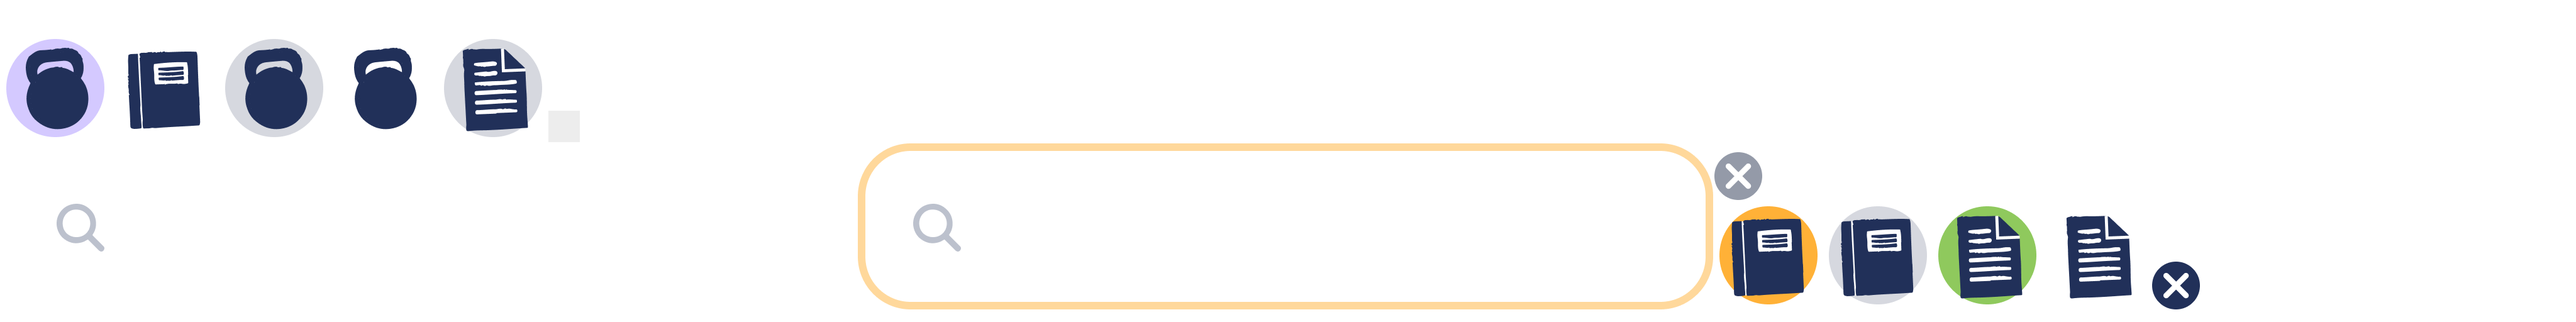
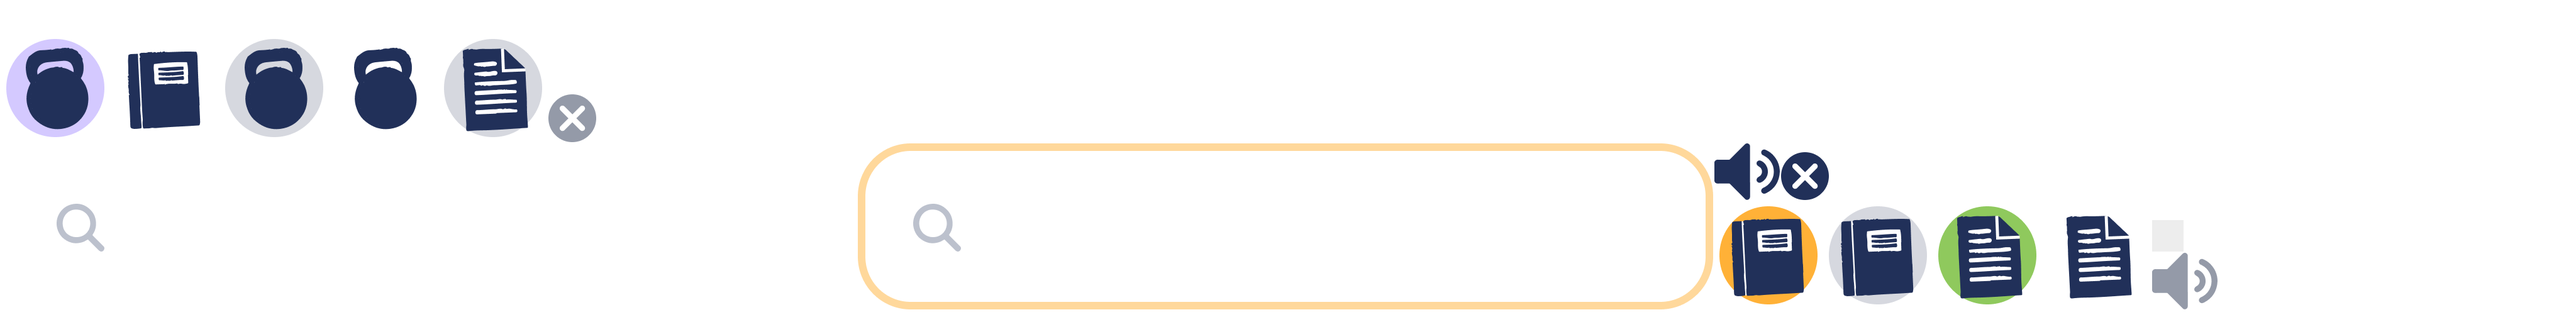
update - 7.2.23::1

Changed region(s): [[0.8125, 0.7812, 0.875, 0.9688], [0.6562, 0.4688, 0.7188, 0.625], [0.1875, 0.2812, 0.25, 0.4375]]

diff --git a/core/src/com/hydroyura/dictinaryapp/stages/main/MainStage.java b/core/src/com/hydroyura/dictinaryapp/stages/main/MainStage.java
@@ -25,6 +25,7 @@ import com.hydroyura.dictinaryapp.AppStarter;
 import static com.hydroyura.dictinaryapp.stages.main.MainStageConstants.*;
 import com.hydroyura.dictinaryapp.httpclient.HttpClient;
 import com.hydroyura.dictinaryapp.stages.main.fsm.body.BodyFSMStates;
+import com.hydroyura.dictinaryapp.stages.main.fsm.footer.FooterMainFSMStates;
 import com.hydroyura.dictinaryapp.stages.main.fsm.header.HeaderWordInputFSMStates;
 
 import java.util.*;
@@ -104,6 +105,8 @@ public class MainStage extends Stage {
             POSITION_X += 2 * Gdx.graphics.getWidth() / 7;
         };
 
+        fsms.put(FOOTER_MAIN_ID, new DefaultStateMachine<>(group, FooterMainFSMStates.DICTIONARY));
+
         return group;
     };
 
@@ -156,7 +159,25 @@ public class MainStage extends Stage {
         group.addActor(table);
         table.align(Align.topLeft);
 
+        // label-for-add-word
+        Label addWordTitle = new Label("", skin.get("label-for-add-word", LabelStyle.class));
+        addWordTitle.setName(BODY_WORDS_WORD_ADD_TITLE_ID);
+        addWordTitle.setPosition(Gdx.graphics.getWidth() / 2f, 550f);
+        addWordTitle.setVisible(false);
+        group.addActor(addWordTitle);
 
+        Label addWordTitleTranscription = new Label("", skin.get("label-for-add-word", LabelStyle.class));
+        addWordTitleTranscription.setName(BODY_WORDS_WORD_ADD_TITLE_TRANSCRIPTION_ID);
+        addWordTitleTranscription.setPosition(Gdx.graphics.getWidth() / 2f, 450f);
+        addWordTitleTranscription.setVisible(false);
+        group.addActor(addWordTitleTranscription);
+
+        ImageButton pronunciationBtn = new ImageButton(skin.get("pronunciation", ImageButtonStyle.class));
+        pronunciationBtn.setName(BODY_WORDS_WORD_ADD_PRONUNCIATION_ID);
+        pronunciationBtn.setSize(Gdx.graphics.getWidth() / 10f, Gdx.graphics.getWidth() / 10f);
+        pronunciationBtn.setPosition(Gdx.graphics.getWidth() / 2f - pronunciationBtn.getWidth() / 2f, Gdx.graphics.getHeight() * 0.75f);
+        pronunciationBtn.setVisible(false);
+        group.addActor(pronunciationBtn);
 
         fsms.put(BODY_ID, new DefaultStateMachine<>(group, BodyFSMStates.WORD_INPUT));
 

diff --git a/core/src/com/hydroyura/dictinaryapp/httpclient/response/impl/AutoCompleteHttpResponse.java b/core/src/com/hydroyura/dictinaryapp/httpclient/response/impl/AutoCompleteHttpResponse.java
@@ -16,18 +16,19 @@ import com.hydroyura.dictinaryapp.httpclient.response.converter.impl.AutoComplet
 import com.hydroyura.dictinaryapp.httpclient.response.dto.DTOAutoCompleteResponse;
 import com.hydroyura.dictinaryapp.stages.main.MainStage;
 import com.hydroyura.dictinaryapp.stages.main.fsm.body.BodyFSMStates;
+import com.hydroyura.dictinaryapp.stages.main.fsm.footer.FooterMainFSMStates;
 import com.hydroyura.dictinaryapp.stages.main.fsm.header.HeaderWordInputFSMStates;
 
 import static com.hydroyura.dictinaryapp.stages.main.MainStageConstants.*;
 
 public class AutoCompleteHttpResponse extends AbstractHttpResponse<DTOAutoCompleteResponse> {
 
-    private AppStarter app = (AppStarter) Gdx.app.getApplicationListener();
     private Table table;
 
     private TextButton.TextButtonStyle style;
 
     public AutoCompleteHttpResponse() {
+        super();
         this.converter = new AutoCompleteConverter();
     }
 
@@ -51,8 +52,17 @@ public class AutoCompleteHttpResponse extends AbstractHttpResponse<DTOAutoComple
                     TextButton button = (TextButton) event.getListenerActor();
                     Gdx.app.log(this.getClass().toString(), "clicked(), word = " + button.getText());
 
+                    if(table.getParent().findActor(BODY_SELECTED_WORD_ID) != null) table.getParent().removeActor(table.getParent().findActor(BODY_SELECTED_WORD_ID));
+
+                    TextButton buttonSelectedWord = new TextButton(item, style);
+                    buttonSelectedWord.setName(BODY_SELECTED_WORD_ID);
+                    buttonSelectedWord.setVisible(false);
+                    table.getParent().addActor(buttonSelectedWord);
+
+                    // change FSMs states
                     ((MainStage) event.getStage()).getFSM(BODY_ID).changeState(BodyFSMStates.WORD_ADD);
                     ((MainStage) event.getStage()).getFSM(HEADER_WORD_INPUT_ID).changeState(HeaderWordInputFSMStates.HIDE);
+                    ((MainStage) event.getStage()).getFSM(FOOTER_MAIN_ID).changeState(FooterMainFSMStates.HIDE);
 
                 }
             });

diff --git a/core/src/com/hydroyura/dictinaryapp/stages/main/fsm/body/BodyFSMStates.java b/core/src/com/hydroyura/dictinaryapp/stages/main/fsm/body/BodyFSMStates.java
@@ -4,7 +4,7 @@ import com.badlogic.gdx.Gdx;
 import com.badlogic.gdx.ai.fsm.State;
 import com.badlogic.gdx.ai.msg.Telegram;
 import com.badlogic.gdx.scenes.scene2d.Group;
-import com.badlogic.gdx.scenes.scene2d.ui.Table;
+import com.badlogic.gdx.scenes.scene2d.ui.*;
 
 import static com.hydroyura.dictinaryapp.stages.main.MainStageConstants.*;
 
@@ -32,7 +32,28 @@ public enum BodyFSMStates implements State<Group> {
     },
 
     WORD_ADD{
+        @Override
+        public void enter(Group entity) {
+            super.enter(entity);
+            String word = ((TextButton) entity.findActor(BODY_SELECTED_WORD_ID)).getText().toString();
+            Gdx.app.log(this.getClass().toString(), "Word to add -> " + word);
+            Label label = entity.findActor(BODY_WORDS_WORD_ADD_TITLE_ID);
+            label.setVisible(true);
+            label.setText(word);
+            label.layout();
+            label.setPosition(Gdx.graphics.getWidth() / 2f - label.getGlyphLayout().width / 2f, Gdx.graphics.getHeight() * 0.9f);
 
+            String transcription = "[" + "transcription" + "]";
+            Gdx.app.log(this.getClass().toString(), "Word transcription -> " + transcription);
+            Label labelTranscription = entity.findActor(BODY_WORDS_WORD_ADD_TITLE_TRANSCRIPTION_ID);
+            labelTranscription.setVisible(true);
+            labelTranscription.setText(transcription);
+            labelTranscription.layout();
+            labelTranscription.setPosition(Gdx.graphics.getWidth() / 2f - labelTranscription.getGlyphLayout().width / 2f, Gdx.graphics.getHeight() * 0.85f);
+
+            entity.findActor(BODY_WORDS_WORD_ADD_PRONUNCIATION_ID).setVisible(true);
+
+        }
     };
 
 

diff --git a/core/src/com/hydroyura/dictinaryapp/httpclient/response/impl/TranslateHttpResponse.java b/core/src/com/hydroyura/dictinaryapp/httpclient/response/impl/TranslateHttpResponse.java
@@ -1,0 +1,25 @@
+package com.hydroyura.dictinaryapp.httpclient.response.impl;
+
+import com.badlogic.gdx.Net;
+import com.badlogic.gdx.Net.HttpResponse;
+import com.hydroyura.dictinaryapp.httpclient.response.AbstractHttpResponse;
+import com.hydroyura.dictinaryapp.httpclient.response.converter.impl.TranslateConverter;
+import com.hydroyura.dictinaryapp.httpclient.response.dto.DTOTranslateResponse;
+
+public class TranslateHttpResponse extends AbstractHttpResponse<DTOTranslateResponse> {
+
+    public TranslateHttpResponse() {
+        super();
+        this.converter = new TranslateConverter();
+
+    }
+
+    @Override
+    public void handleHttpResponse(HttpResponse httpResponse) {
+        super.handleHttpResponse(httpResponse);
+
+        DTOTranslateResponse dto = converter.convert(httpResponse);
+
+
+    }
+}

diff --git a/core/src/com/hydroyura/dictinaryapp/stages/main/fsm/footer/FooterMainFSMStates.java b/core/src/com/hydroyura/dictinaryapp/stages/main/fsm/footer/FooterMainFSMStates.java
@@ -1,0 +1,42 @@
+package com.hydroyura.dictinaryapp.stages.main.fsm.footer;
+
+import com.badlogic.gdx.ai.fsm.State;
+import com.badlogic.gdx.ai.msg.Telegram;
+import com.badlogic.gdx.scenes.scene2d.Group;
+
+public enum FooterMainFSMStates implements State<Group> {
+
+    DICTIONARY() {},
+    MY_WORDS() {},
+
+    TRAIN() {},
+
+    HIDE() {
+        @Override
+        public void enter(Group entity) {
+            super.enter(entity);
+            entity.setVisible(false);
+        }
+    };
+
+
+    @Override
+    public void enter(Group entity) {
+
+    }
+
+    @Override
+    public void update(Group entity) {
+
+    }
+
+    @Override
+    public void exit(Group entity) {
+
+    }
+
+    @Override
+    public boolean onMessage(Group entity, Telegram telegram) {
+        return false;
+    }
+}

diff --git a/core/src/com/hydroyura/dictinaryapp/stages/main/MainStageConstants.java b/core/src/com/hydroyura/dictinaryapp/stages/main/MainStageConstants.java
@@ -6,6 +6,11 @@ public class MainStageConstants {
     public static String HEADER_WORD_INPUT_ID = "HEADER_WORD_INPUT";
     public static String FIELD_WORD_INPUT_ID = "FIELD_WORD_INPUT_ID";
     public static String BODY_ID = "BODY_ID";
+    public static String BODY_SELECTED_WORD_ID = "BODY_SELECTED_WORD_ID";
     public static String BODY_WORDS_AUTOCOMPLETE_RESULT_ID = "BODY_WORDS_AUTOCOMPLETE_RESULT_ID";
+    public static String BODY_WORDS_WORD_ADD_TITLE_ID = "BODY_WORDS_WORD_ADD_TITLE_ID";
+    public static String BODY_WORDS_WORD_ADD_TITLE_TRANSCRIPTION_ID = "BODY_WORDS_WORD_ADD_TITLE_TRANSCRIPTION_ID";
+    public static String BODY_WORDS_WORD_ADD_PRONUNCIATION_ID = "BODY_WORDS_WORD_ADD_PRONUNCIATION_ID";
+
 
 }

diff --git a/core/src/com/hydroyura/dictinaryapp/httpclient/response/AbstractHttpResponse.java b/core/src/com/hydroyura/dictinaryapp/httpclient/response/AbstractHttpResponse.java
@@ -4,11 +4,18 @@ import com.badlogic.gdx.Gdx;
 import com.badlogic.gdx.Net.HttpResponse;
 import com.badlogic.gdx.Net.HttpResponseListener;
 import com.fasterxml.jackson.databind.ObjectMapper;
+import com.hydroyura.dictinaryapp.AppStarter;
 import com.hydroyura.dictinaryapp.httpclient.response.converter.ResponseConverter;
 
 public abstract class AbstractHttpResponse<DTO> implements HttpResponseListener {
 
     protected ResponseConverter<DTO> converter;
+
+    protected AppStarter app;
+
+    public AbstractHttpResponse() {
+        this.app = (AppStarter) Gdx.app.getApplicationListener();
+    }
 
     @Override
     public void handleHttpResponse(HttpResponse httpResponse) {

diff --git a/core/src/com/hydroyura/dictinaryapp/httpclient/response/converter/impl/TranslateConverter.java b/core/src/com/hydroyura/dictinaryapp/httpclient/response/converter/impl/TranslateConverter.java
@@ -1,0 +1,12 @@
+package com.hydroyura.dictinaryapp.httpclient.response.converter.impl;
+
+import com.badlogic.gdx.Net.HttpResponse;
+import com.hydroyura.dictinaryapp.httpclient.response.converter.ResponseConverter;
+import com.hydroyura.dictinaryapp.httpclient.response.dto.DTOTranslateResponse;
+
+public class TranslateConverter implements ResponseConverter<DTOTranslateResponse> {
+    @Override
+    public DTOTranslateResponse convert(HttpResponse response) {
+        return null;
+    }
+}

diff --git a/core/src/com/hydroyura/dictinaryapp/httpclient/response/converter/ResponseConverter.java b/core/src/com/hydroyura/dictinaryapp/httpclient/response/converter/ResponseConverter.java
@@ -2,6 +2,7 @@ package com.hydroyura.dictinaryapp.httpclient.response.converter;
 
 import com.badlogic.gdx.Net.HttpResponse;
 
+// FIXME: remove it and replaced by JAVA standard functional interface
 public interface ResponseConverter<DTO> {
 
     public DTO convert(HttpResponse response);

diff --git a/core/src/com/hydroyura/dictinaryapp/httpclient/response/dto/DTOTranslateResponse.java b/core/src/com/hydroyura/dictinaryapp/httpclient/response/dto/DTOTranslateResponse.java
@@ -1,0 +1,4 @@
+package com.hydroyura.dictinaryapp.httpclient.response.dto;
+
+public class DTOTranslateResponse {
+}
